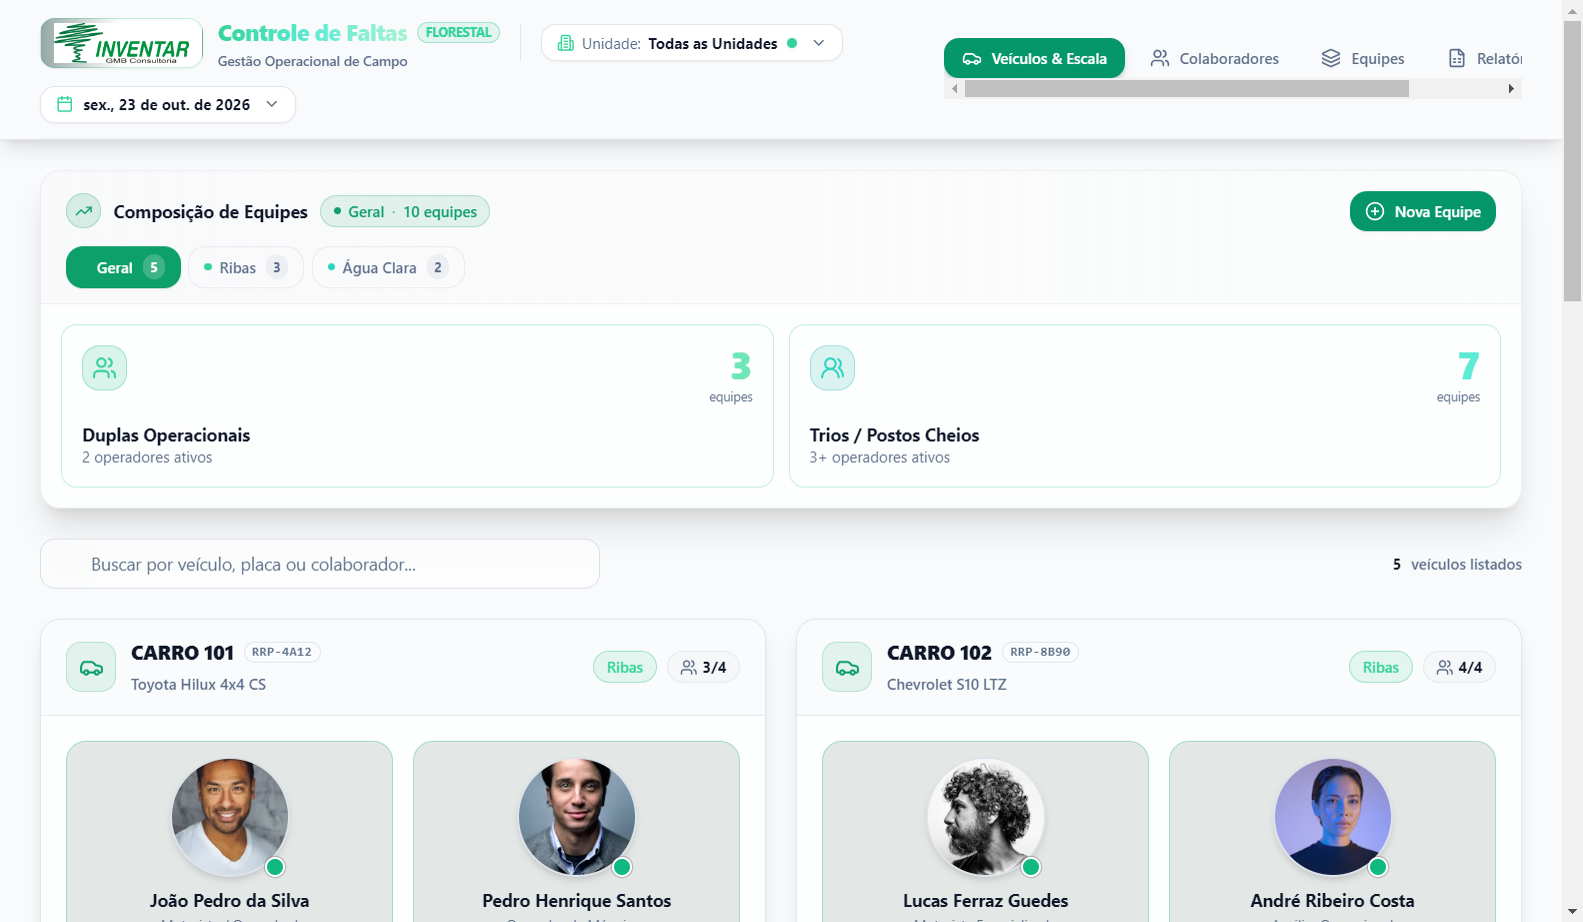
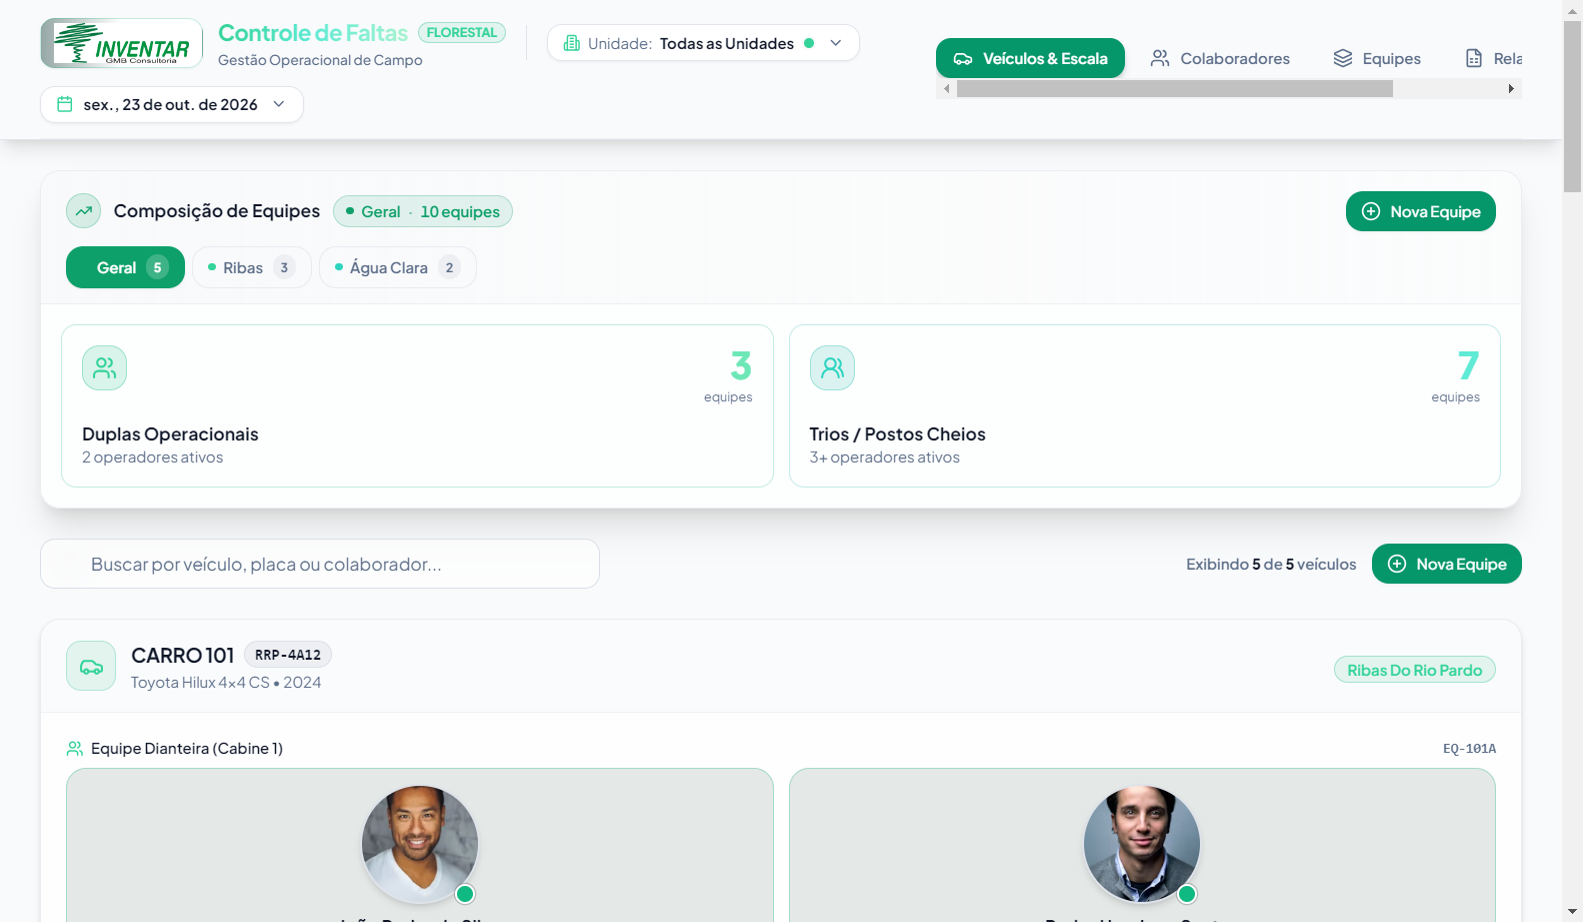
CodeIn: 2026-10-23T11:29:15.316Z

diff --git a/src/components/VehicleCardGrid.tsx b/src/components/VehicleCardGrid.tsx
@@ -3,16 +3,13 @@ import {
   Car,
   User,
   Users,
+  Search,
+  PlusCircle,
+  MapPin,
   CheckCircle2,
   AlertCircle,
-  HelpCircle,
-  MapPin,
   Clock,
-  ExternalLink,
-  ChevronRight,
-  ShieldCheck,
-  Search,
-  Filter,
+  Sparkles,
 } from 'lucide-react';
 import { Veiculo, Colaborador, StatusPresenca, MotivoFalta, Regional } from '../types';
 import { AttendanceModal } from './AttendanceModal';
@@ -37,6 +34,7 @@ export interface VehicleCardGridProps {
     posicao: 'motorista' | 'frenteDir' | 'trasEsq' | 'trasDir',
     substituto: Colaborador
   ) => void;
+  onNovaEquipeClick?: () => void;
 }
 
 const statusBadgeStyles: Record<StatusPresenca, string> = {
@@ -57,6 +55,7 @@ export const VehicleCardGrid: React.FC<VehicleCardGridProps> = ({
   selectedRegional = 'todas',
   onUpdateColaboradorStatus,
   onSubstituirColaborador,
+  onNovaEquipeClick,
 }) => {
   const [selectedColaborador, setSelectedColaborador] = useState<Colaborador | null>(null);
   const [modalOpen, setModalOpen] = useState(false);
@@ -94,42 +93,50 @@ export const VehicleCardGrid: React.FC<VehicleCardGridProps> = ({
   };
 
   const handleSaveAttendance = (
-    colabId: string,
     novoStatus: StatusPresenca,
     motivo?: MotivoFalta,
     obs?: string,
-    substituto?: Colaborador
+    substitutoId?: string
   ) => {
+    if (!selectedColaborador) return;
+
     onUpdateColaboradorStatus?.(
-      colabId,
+      selectedColaborador.id,
       novoStatus,
       motivo,
       obs,
-      substituto?.id
+      substitutoId
     );
 
     if (
       novoStatus === 'substituto' &&
-      substituto &&
+      substitutoId &&
       selectedVeiculo &&
       selectedPosicao
     ) {
-      onSubstituirColaborador?.(selectedVeiculo.id, selectedPosicao, substituto);
+      const substituto = (colaboradoresReserva || []).find((c) => c.id === substitutoId);
+      if (substituto) {
+        onSubstituirColaborador?.(selectedVeiculo.id, selectedPosicao, substituto);
+      }
     }
+
+    setModalOpen(false);
   };
 
   const renderColaboradorAssento = (
     colaborador: Colaborador | undefined,
     veiculo: Veiculo,
-    posicao: 'motorista' | 'frenteDir' | 'trasEsq' | 'trasDir'
+    posicao: 'motorista' | 'frenteDir' | 'trasEsq' | 'trasDir',
+    etiquetaPosicao: string
   ) => {
     if (!colaborador) {
       return (
-        <div className="flex flex-col items-center justify-center p-3 rounded-2xl border border-dashed border-border/60 bg-muted/20 min-h-[148px]">
-          <div className="w-14 h-14 rounded-full border border-dashed border-border/80 flex items-center justify-center mb-2 text-muted-foreground/50">
-            <User className="w-6 h-6" />
+        <div className="flex flex-col items-center justify-center p-3 rounded-2xl border border-dashed border-border/60 bg-muted/10 min-h-[160px]">
+          <div className="w-16 h-16 rounded-full border border-dashed border-border/80 flex items-center justify-center mb-2 text-muted-foreground/40">
+            <User className="w-7 h-7" />
           </div>
-          <span className="text-xs font-semibold text-muted-foreground">Vago</span>
+          <span className="text-xs font-semibold text-muted-foreground">Posto Vago</span>
+          <span className="text-[10px] text-muted-foreground/60">{etiquetaPosicao}</span>
         </div>
       );
     }
@@ -174,17 +181,18 @@ export const VehicleCardGrid: React.FC<VehicleCardGridProps> = ({
           />
         </div>
 
-        {/* Nome do Colaborador abaixo da foto */}
         <span className="text-xs sm:text-sm font-bold text-foreground group-hover:text-primary transition-colors line-clamp-1 w-full px-1">
           {colaborador.nome}
         </span>
 
-        {/* Cargo */}
         <span className="text-[11px] text-muted-foreground line-clamp-1 w-full px-1 mt-0.5">
           {colaborador.cargo}
         </span>
 
-        {/* Badge de Status */}
+        <span className="text-[10px] text-muted-foreground/70 font-medium mt-0.5">
+          {etiquetaPosicao}
+        </span>
+
         <div className="mt-2">
           <Badge variant="outline" className={cn('text-[10px] py-0 px-2 font-medium capitalize', badgeStyle)}>
             {status === 'substituto' ? 'Substituição' : status}
@@ -214,128 +222,146 @@ export const VehicleCardGrid: React.FC<VehicleCardGridProps> = ({
           />
         </div>
 
-        <div className="flex items-center gap-2 text-xs font-semibold text-muted-foreground self-end sm:self-center">
-          <span className="tabular-nums font-bold text-foreground">{veiculosFiltrados.length}</span>{' '}
-          {veiculosFiltrados.length === 1 ? 'veículo listado' : 'veículos listados'}
+        <div className="flex items-center gap-3 self-end sm:self-center">
+          <span className="text-xs font-semibold text-muted-foreground tabular-nums">
+            Exibindo <strong className="text-foreground">{veiculosFiltrados.length}</strong> de{' '}
+            <strong className="text-foreground">{(veiculos || []).length}</strong> veículos
+          </span>
+
+          {onNovaEquipeClick && (
+            <Button
+              type="button"
+              onClick={onNovaEquipeClick}
+              size="sm"
+              className="gap-2 bg-emerald-600 hover:bg-emerald-500 text-white shadow-sm"
+            >
+              <PlusCircle className="w-4 h-4" />
+              <span>Nova Equipe</span>
+            </Button>
+          )}
         </div>
       </div>
 
       {veiculosFiltrados.length === 0 ? (
-        <Card className="p-12 text-center border-dashed">
-          <div className="w-14 h-14 rounded-full bg-muted/40 border border-border flex items-center justify-center mx-auto mb-3">
-            <Car className="w-7 h-7 text-muted-foreground" />
+        <div className="w-full rounded-2xl border border-dashed border-border/80 bg-card/30 p-12 text-center flex flex-col items-center justify-center">
+          <div className="w-12 h-12 rounded-2xl bg-muted/40 border border-border flex items-center justify-center mb-3">
+            <Car className="w-6 h-6 text-muted-foreground" />
           </div>
-          <h3 className="text-base font-bold text-foreground">Nenhum veículo encontrado</h3>
-          <p className="text-xs text-muted-foreground mt-1 max-w-sm mx-auto">
-            Não encontramos registros para o filtro ou termo de busca selecionado no momento.
+          <h4 className="text-base font-bold text-foreground">Nenhum veículo encontrado</h4>
+          <p className="text-xs text-muted-foreground max-w-sm mt-1">
+            Ajuste a busca ou os filtros de regional para visualizar a escala de frotas e colaboradores.
           </p>
-        </Card>
+          {onNovaEquipeClick && (
+            <Button
+              type="button"
+              onClick={onNovaEquipeClick}
+              size="sm"
+              className="mt-4 gap-2 bg-emerald-600 hover:bg-emerald-500 text-white"
+            >
+              <PlusCircle className="w-4 h-4" />
+              <span>Cadastrar Primeira Equipe</span>
+            </Button>
+          )}
+        </div>
       ) : (
-        <div className="grid grid-cols-1 lg:grid-cols-2 gap-6">
-          {veiculosFiltrados.map((veiculo) => {
-            const ativos = [
-              veiculo.assentos?.motorista,
-              veiculo.assentos?.frenteDir,
-              veiculo.assentos?.trasEsq,
-              veiculo.assentos?.trasDir,
-            ].filter(
-              (c) => c && (c.status === 'presente' || c.status === 'substituto')
-            ).length;
-
-            return (
-              <Card
-                key={veiculo.id}
-                className="overflow-hidden border border-border/80 bg-card/70 backdrop-blur-md hover:border-border transition-all duration-200 shadow-lg flex flex-col"
-              >
-                {/* Cabeçalho do Card de Veículo */}
-                <div className="px-5 py-3.5 border-b border-border/60 bg-muted/20 flex items-center justify-between">
-                  <div className="flex items-center gap-3">
-                    <div className="w-10 h-10 rounded-xl bg-primary/10 border border-primary/20 flex items-center justify-center text-primary shrink-0">
-                      <Car className="w-5 h-5" />
-                    </div>
-                    <div>
-                      <div className="flex items-center gap-2">
-                        <span className="font-extrabold text-base tracking-tight text-foreground">
-                          {veiculo.prefixo}
-                        </span>
-                        <Badge
-                          variant="outline"
-                          className="text-[10px] font-mono uppercase tracking-wider py-0 px-1.5 border-border/80 text-muted-foreground"
-                        >
-                          {veiculo.placa}
-                        </Badge>
-                      </div>
-                      <span className="text-xs text-muted-foreground font-medium">
-                        {veiculo.modelo}
+        <div className="grid grid-cols-1 xl:grid-cols-2 gap-6">
+          {veiculosFiltrados.map((veiculo) => (
+            <Card
+              key={veiculo.id}
+              className="overflow-hidden border border-border/60 bg-card/80 backdrop-blur-md shadow-md hover:shadow-lg transition-all"
+            >
+              <CardHeader className="px-5 py-4 border-b border-border/40 bg-muted/20 flex flex-row items-center justify-between gap-3">
+                <div className="flex items-center gap-3">
+                  <div className="w-10 h-10 rounded-xl bg-emerald-500/10 border border-emerald-500/25 flex items-center justify-center text-emerald-400">
+                    <Car className="w-5 h-5" />
+                  </div>
+                  <div>
+                    <div className="flex items-center gap-2">
+                      <h3 className="font-bold text-base text-foreground tracking-tight">
+                        {veiculo.prefixo}
+                      </h3>
+                      <span className="text-xs px-2 py-0.5 rounded-md bg-muted border border-border text-foreground font-mono font-bold">
+                        {veiculo.placa}
                       </span>
                     </div>
-                  </div>
-
-                  <div className="flex items-center gap-2">
-                    <Badge
-                      variant="outline"
-                      className={cn(
-                        'text-xs font-semibold py-1 px-2.5',
-                        veiculo.regional === 'ribas'
-                          ? 'border-emerald-500/30 text-emerald-400 bg-emerald-500/10'
-                          : 'border-teal-500/30 text-teal-400 bg-teal-500/10'
-                      )}
-                    >
-                      {veiculo.regional === 'ribas' ? 'Ribas' : 'Água Clara'}
-                    </Badge>
-                    <div className="flex items-center gap-1 text-xs font-bold px-2.5 py-1 rounded-lg border border-border/60 bg-muted/40 tabular-nums">
-                      <Users className="w-3.5 h-3.5 text-muted-foreground" />
-                      <span>{ativos}/4</span>
-                    </div>
+                    <p className="text-xs text-muted-foreground mt-0.5">
+                      {veiculo.modelo} {veiculo.ano ? `• ${veiculo.ano}` : ''}
+                    </p>
                   </div>
                 </div>
 
-                {/* Grid dos 4 Assentos Operacionais */}
-                <CardContent className="p-4 sm:p-5 flex-1">
-                  <div className="grid grid-cols-2 gap-3 sm:gap-4">
+                <div className="flex items-center gap-2">
+                  <Badge
+                    variant="outline"
+                    className="capitalize text-xs font-semibold border-emerald-500/30 text-emerald-400 bg-emerald-500/10"
+                  >
+                    {veiculo.regional === 'agua_clara' ? 'Água Clara' : 'Ribas do Rio Pardo'}
+                  </Badge>
+                </div>
+              </CardHeader>
+
+              <CardContent className="p-5 space-y-4">
+                <div className="space-y-2">
+                  <div className="flex items-center justify-between text-xs text-muted-foreground font-semibold">
+                    <span className="flex items-center gap-1.5 text-foreground">
+                      <Users className="w-3.5 h-3.5 text-emerald-400" />
+                      Equipe Dianteira (Cabine 1)
+                    </span>
+                    <span className="font-mono text-[11px] text-muted-foreground">
+                      {veiculo.equipe1Codigo || 'EQ-01'}
+                    </span>
+                  </div>
+                  <div className="grid grid-cols-2 gap-3">
                     {renderColaboradorAssento(
                       veiculo.assentos?.motorista,
                       veiculo,
-                      'motorista'
+                      'motorista',
+                      'Motorista Operacional'
                     )}
                     {renderColaboradorAssento(
                       veiculo.assentos?.frenteDir,
                       veiculo,
-                      'frenteDir'
+                      'frenteDir',
+                      'Auxiliar / Ajudante'
                     )}
+                  </div>
+                </div>
+
+                <div className="border-t border-border/40 pt-3 space-y-2">
+                  <div className="flex items-center justify-between text-xs text-muted-foreground font-semibold">
+                    <span className="flex items-center gap-1.5 text-foreground">
+                      <Users className="w-3.5 h-3.5 text-teal-400" />
+                      Equipe Traseira (Cabine 2)
+                    </span>
+                    <span className="font-mono text-[11px] text-muted-foreground">
+                      {veiculo.equipe2Codigo || 'EQ-02'}
+                    </span>
+                  </div>
+                  <div className="grid grid-cols-2 gap-3">
                     {renderColaboradorAssento(
                       veiculo.assentos?.trasEsq,
                       veiculo,
-                      'trasEsq'
+                      'trasEsq',
+                      'Operador Traseiro 1'
                     )}
                     {renderColaboradorAssento(
                       veiculo.assentos?.trasDir,
                       veiculo,
-                      'trasDir'
+                      'trasDir',
+                      'Operador Traseiro 2'
                     )}
                   </div>
-                </CardContent>
-
-                {/* Rodapé informativo sutil */}
-                <div className="px-5 py-2.5 border-t border-border/40 bg-muted/10 flex items-center justify-between text-[11px] text-muted-foreground">
-                  <span>Toque em qualquer colaborador para marcar presença ou substituição</span>
-                  <ChevronRight className="w-3.5 h-3.5 opacity-60" />
                 </div>
-              </Card>
-            );
-          })}
+              </CardContent>
+            </Card>
+          ))}
         </div>
       )}
 
       {selectedColaborador && (
         <AttendanceModal
           isOpen={modalOpen}
-          onClose={() => {
-            setModalOpen(false);
-            setSelectedColaborador(null);
-            setSelectedVeiculo(null);
-            setSelectedPosicao(null);
-          }}
+          onClose={() => setModalOpen(false)}
           colaborador={selectedColaborador}
           colaboradoresReserva={colaboradoresReserva}
           onSave={handleSaveAttendance}

diff --git a/.codein/PROJECT_MAP.md b/.codein/PROJECT_MAP.md
@@ -1,6 +1,6 @@
 # 🗺 Mapa de Arquitetura e Estrutura — Controle de Faltas
 
-> **Sincronizado automaticamente pelo Code In Engine** em `2026-10-23 10:29:43`
+> **Sincronizado automaticamente pelo Code In Engine** em `2026-10-23 11:28:32`
 > Este documento é a referência viva e em tempo real da arquitetura, componentes e entidades de negócio do projeto.
 
 ---

diff --git a/ARCHITECTURE.md b/ARCHITECTURE.md
@@ -1,6 +1,6 @@
 # 🗺 Mapa de Arquitetura e Estrutura — Controle de Faltas
 
-> **Sincronizado automaticamente pelo Code In Engine** em `2026-10-23 10:29:43`
+> **Sincronizado automaticamente pelo Code In Engine** em `2026-10-23 11:28:32`
 > Este documento é a referência viva e em tempo real da arquitetura, componentes e entidades de negócio do projeto.
 
 ---
